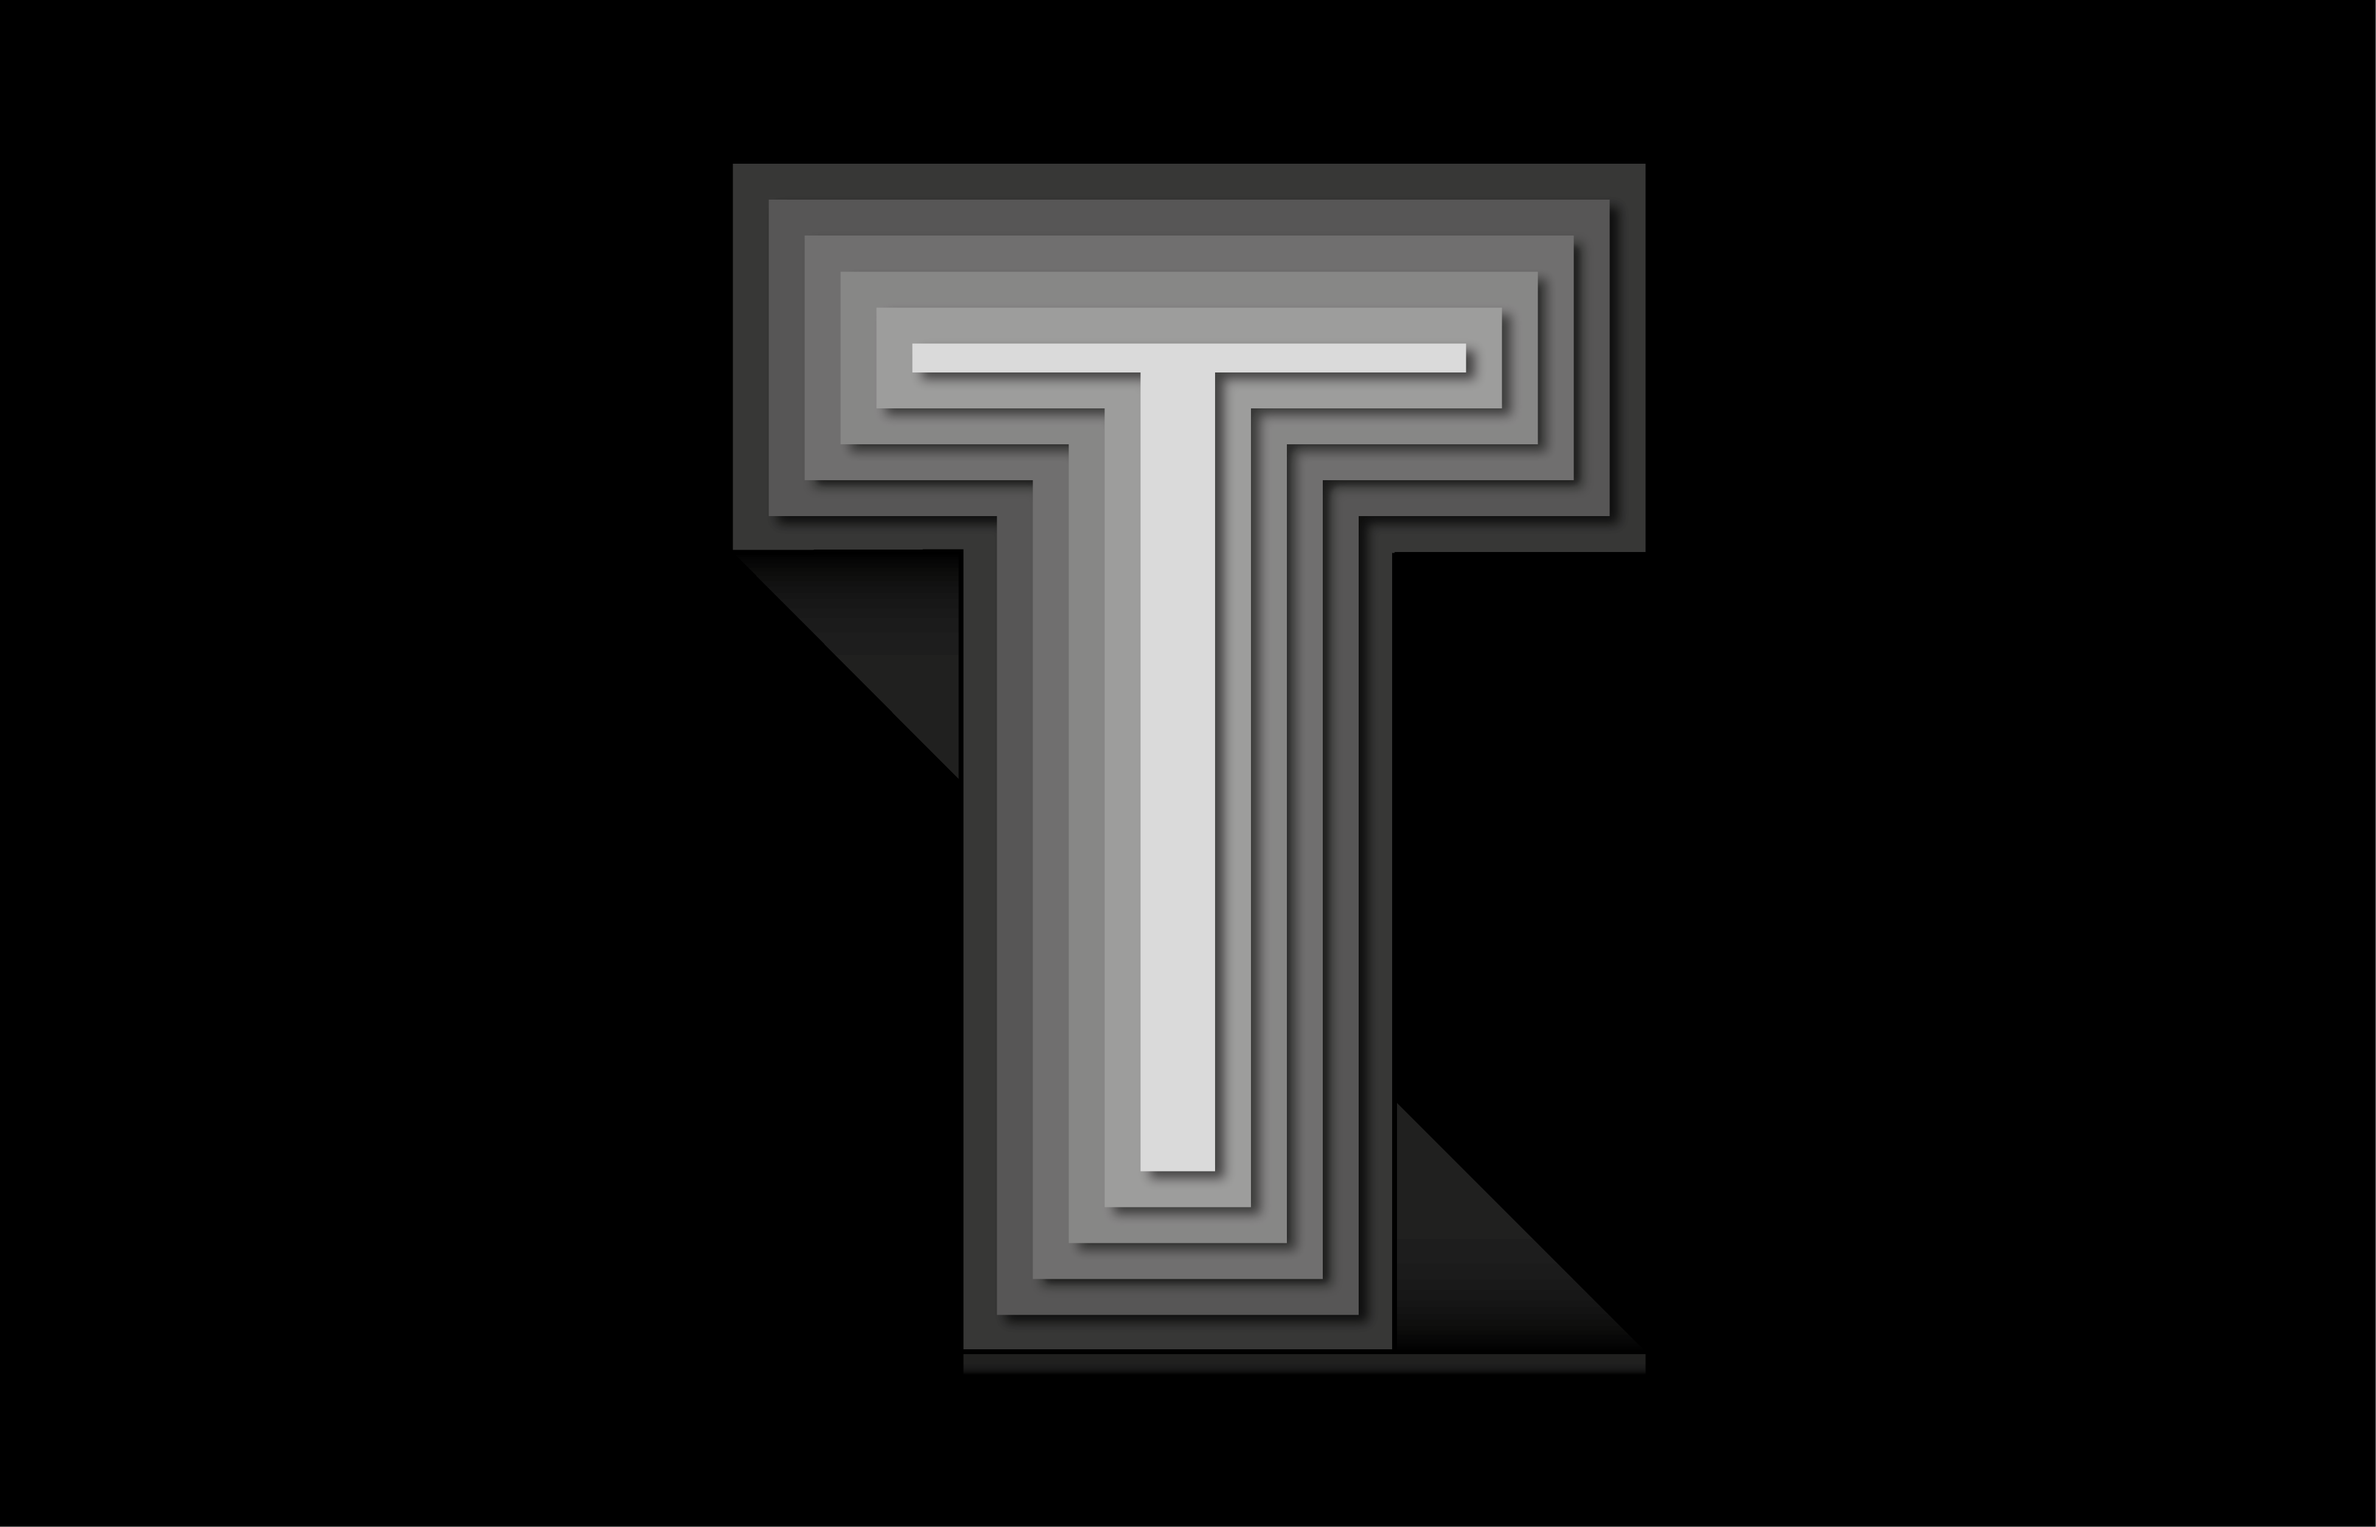
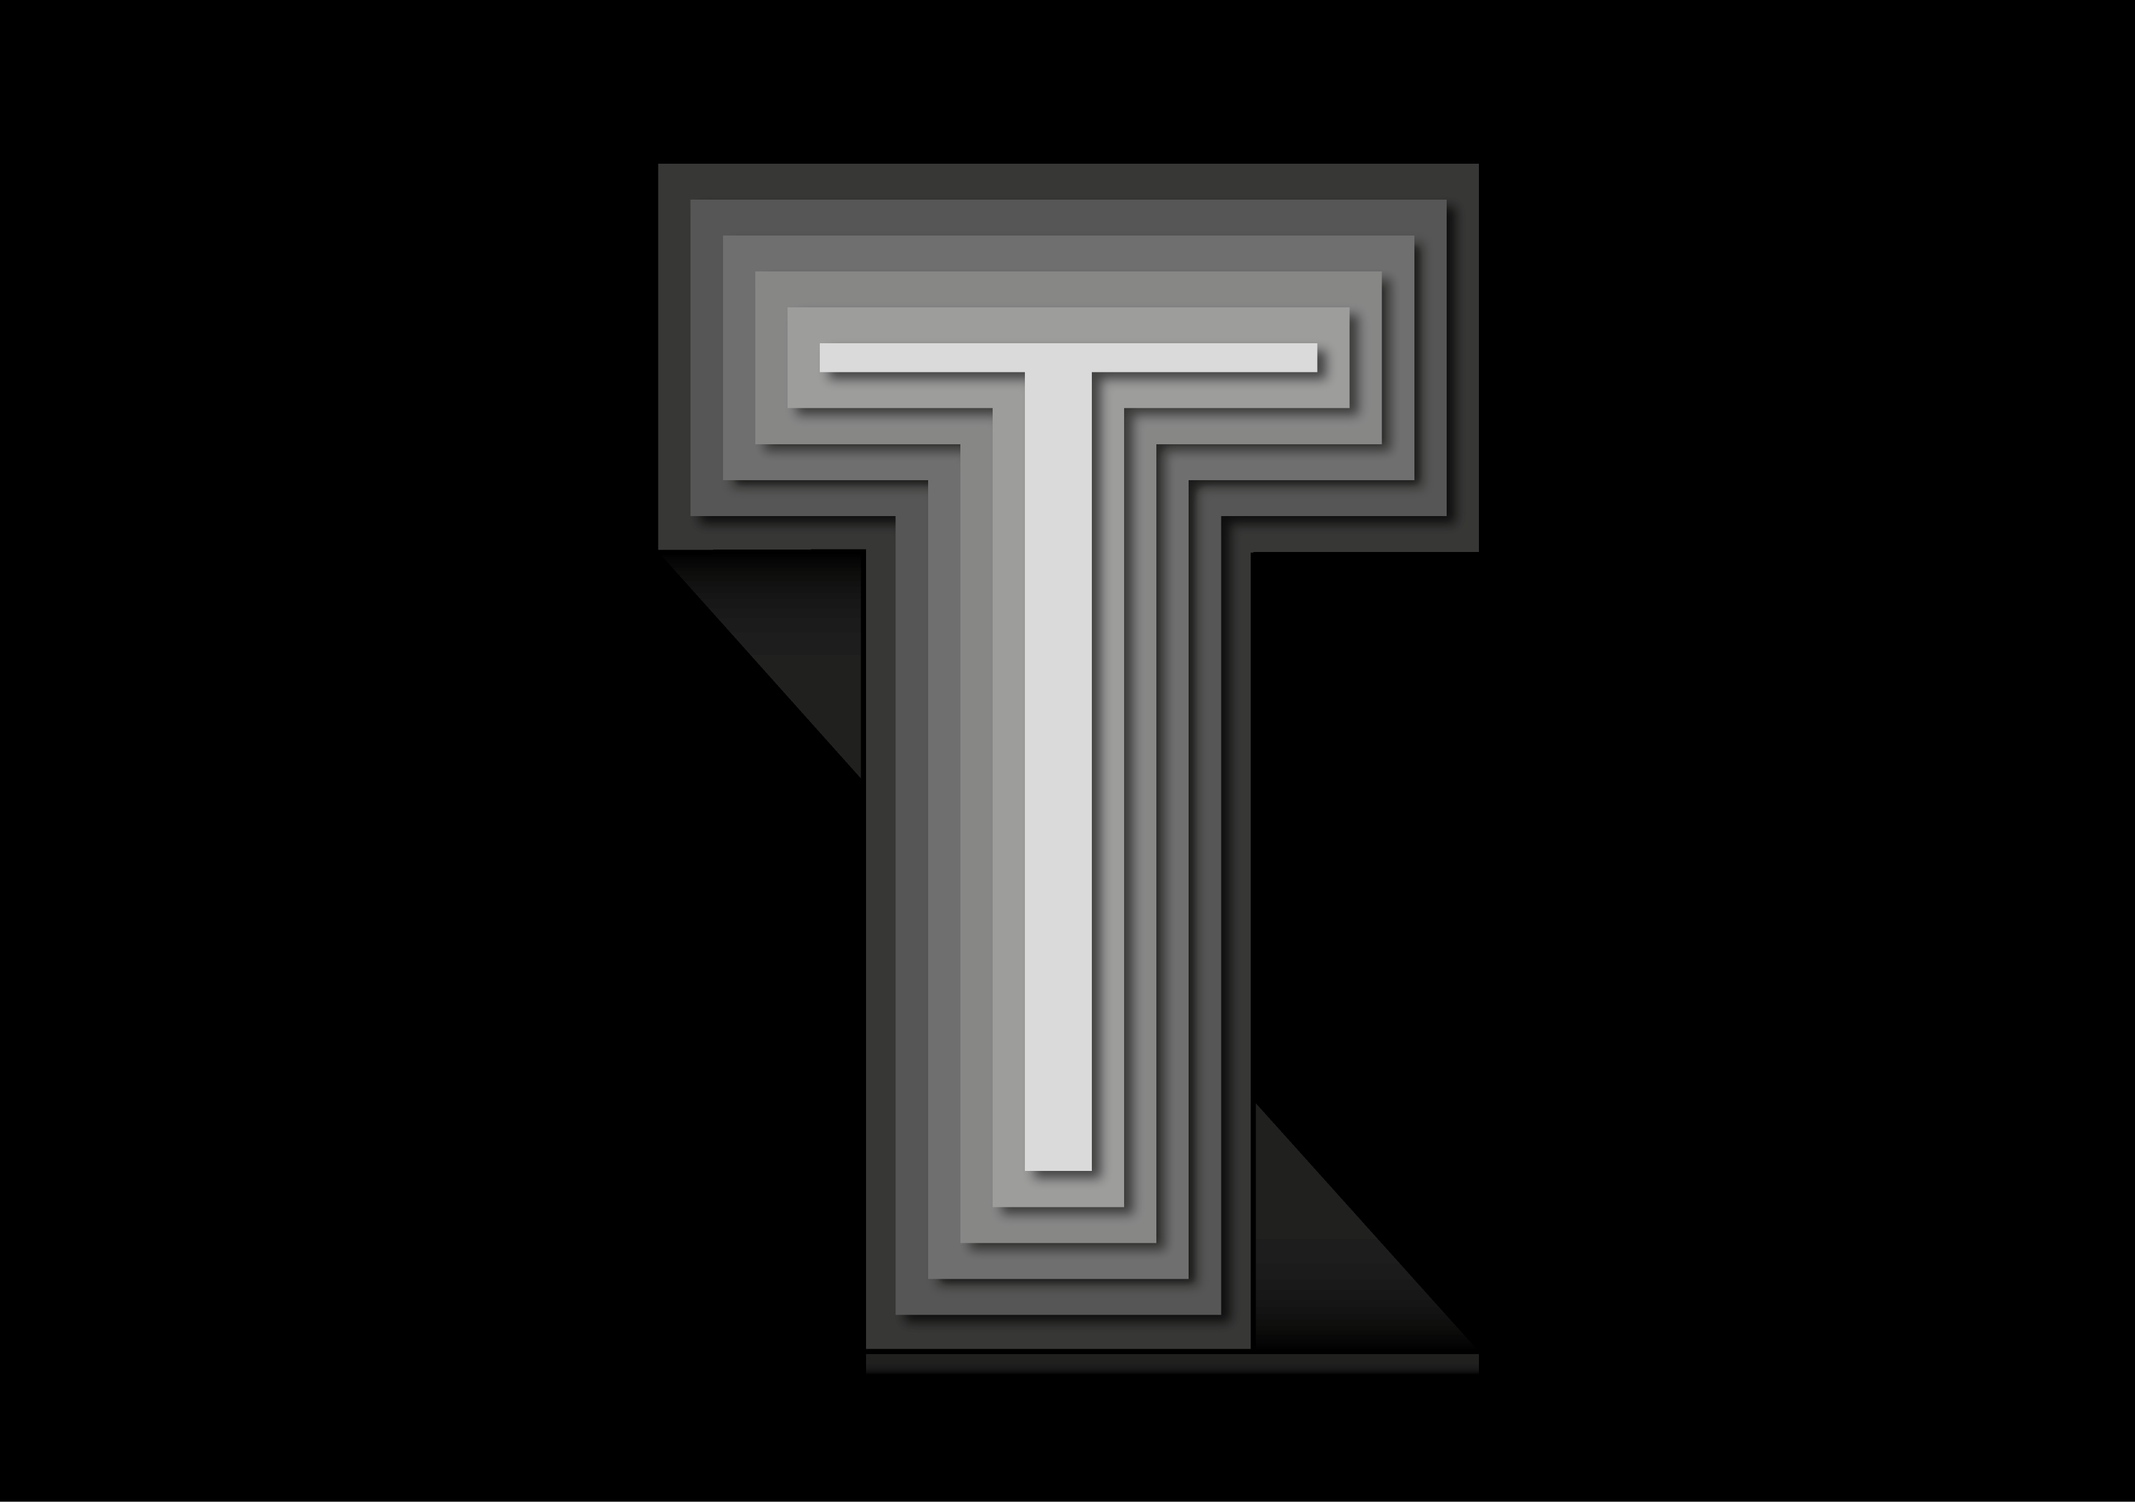
050918

diff --git a/mors2.1.html b/mors2.1.html
@@ -41,7 +41,7 @@
       <span class="grandeimage"><img src="travaux/Damien Tripiana Les habits_Plan de travail 1_Plan de travail 1.png" alt=""></span>
       <span class="grandeimage"><img src="travaux/game boy colustrator.png" alt=""></span>
       <span class="petiteimage"><img src="travaux/logo DT.png" alt=""></span>
-      <span class="petiteimage"><img src="travaux/Damien Tripiana  T carré.png" alt=""></span>
+      <span class="petiteimage"><img src="travaux/Damien Tripiana T.png" alt=""></span>
       <span class="petiteimage"><img src="travaux/maillot Petite Reine Sorgues_Plan de travail 1_Plan de travail 1.png" alt=""></span>
 
       
@@ -61,23 +61,24 @@
       <span class="petiteimage"><img src="argentique/Plan de travail 2.png" alt=""></span>
       <span class="petiteimage"><img src="argentique/Plan de travail 3.png" alt=""></span>
        -->
-      <span class="petiteimage"><img src="lerba tinta/alors euro.png" alt=""></span>
+      
       <!-- <span class="petiteimage"><img src="lerba tinta/" alt=""></span> -->
       <span class="petiteimage"><img src="lerba tinta/FILOU.png" alt=""></span>
+      <span class="petiteimage"><img src="lerba tinta/alors euro.png" alt=""></span>
       <span class="petiteimage"><img src="lerba tinta/just roll its!.png" alt=""></span>
       <span class="petiteimage"><img src="lerba tinta/ice crime.png" alt=""></span>
       <span class="petiteimage"><img src="lerba tinta/jamais 200 toi.png" alt=""></span>
       <span class="petiteimage"><img src="lerba tinta/l'art ichaut.png" alt=""></span>
-      <span class="petiteimage"><img src="lerba tinta/l'art icule.png" alt=""></span>
+      <!-- <span class="petiteimage"><img src="lerba tinta/l'art icule.png" alt=""></span> -->
       <span class="petiteimage"><img src="lerba tinta/l'art ificielle.png" alt=""></span>
       <span class="petiteimage"><img src="lerba tinta/l'artillerie.png" alt=""></span>
       <span class="petiteimage"><img src="lerba tinta/La cig arrete.png" alt=""></span>
       <span class="petiteimage"><img src="lerba tinta/le meilleur est l'avenir.png" alt=""></span>
       <span class="petiteimage"><img src="lerba tinta/matière grasse matière grise.png" alt=""></span>
-      <span class="petiteimage"><img src="lerba tinta/Séduction sidaction.png" alt=""></span>
-      <span class="petiteimage"><img src="lerba tinta/romeo et juliette.png" alt=""></span>
-      <span class="petiteimage"><img src="lerba tinta/matière grasse matière grise.png" alt=""></span>
-      <!-- <span class="petiteimage"><img src="lerba tinta/Slow food.png" alt=""></span> -->
+      <!-- <span class="petiteimage"><img src="lerba tinta/Séduction sidaction.png" alt=""></span> -->
+      <!-- <span class="petiteimage"><img src="lerba tinta/romeo et juliette.png" alt=""></span> -->
+      <!-- <span class="petiteimage"><img src="lerba tinta/matière grasse matière grise.png" alt=""></span> -->
+      <span class="petiteimage"><img src="lerba tinta/Slow food.png" alt=""></span>
       <!-- <span class="petiteimage"><img src="lerba tinta/rhum antisme.png" alt=""></span> -->
       <!-- <span class="grandeimage"><img src="urbex/Damien Tripiana L'Urbex.png" alt=""></span> -->
       <span class="grandeimage"><img src="urbex/Damien Tripiana L'Urbex2.png" alt=""></span>

diff --git a/Mors2.0.css b/Mors2.0.css
@@ -67,7 +67,10 @@ table {
   max-width:450px;
   min-width: 180px;
 }
-
+ 
+#logo{
+   hover: none;
+}
 
 
 #logo:hover{
@@ -167,7 +170,17 @@ ul{
  }
  
  a:hover{
-  color:gray;
+  color: darkslategray;
+  border-bottom: solid 2px black;
+}
+
+.menu-mobile{
+  display: inline;
+  padding: 10px 10px 0 10px;
+ }
+ 
+ .menu-mobile:hover{
+  color: darkslategray;
   border-bottom: solid 2px black;
 }
 /* slider */
@@ -185,7 +198,7 @@ ul{
 #slider figure{
   display:flex;
   width: 500%;
-  animation: 18s slidy infinite;
+  animation: 20s slidy infinite;
 }
 
 #slider > figure > span {
@@ -206,7 +219,7 @@ ul{
   70% { margin-left: -200%; }
   75% { margin-left: -300%; }
   95% { margin-left: -300%; }
-  100% { margin-left: -400%; }
+  100% { margin-left:-400%; }
 }
 
 /* photos */

diff --git a/index.html b/index.html
@@ -35,10 +35,10 @@
     <section id="slider">
       <figure>
         <span><img src="travaux/ghettoblaster carré.png" alt=""></span>
-        <span><img src="travaux/k7 imprim.png" alt=""></span>
+        <span><img src="travaux/k7.png" alt=""></span>
         <span><img src="travaux/game boy carré_Plan de travail 1.png" alt=""></span>
         <span><img src="travaux/télécran-01-01-01.png" alt=""></span>
-        <span><img src="travaux/nintendo 64-01-01-01-01-01.png" alt=""></span>
+        <span><img src="travaux/nintendo 64-01-01-01.png" alt=""></span>
       </figure>
     </section>
     
